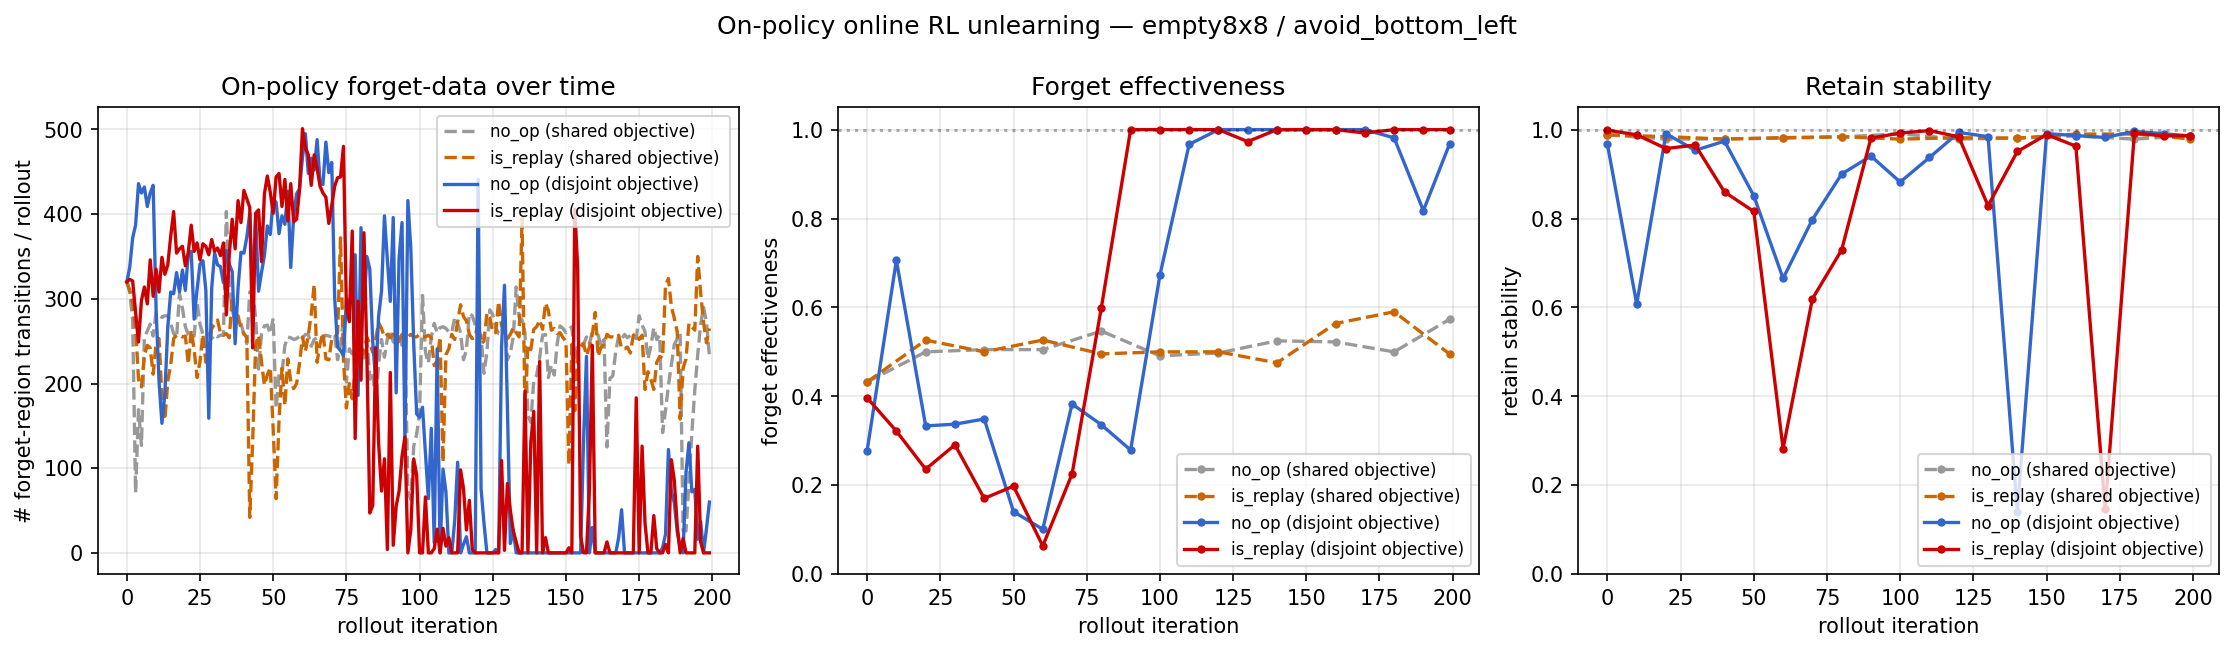
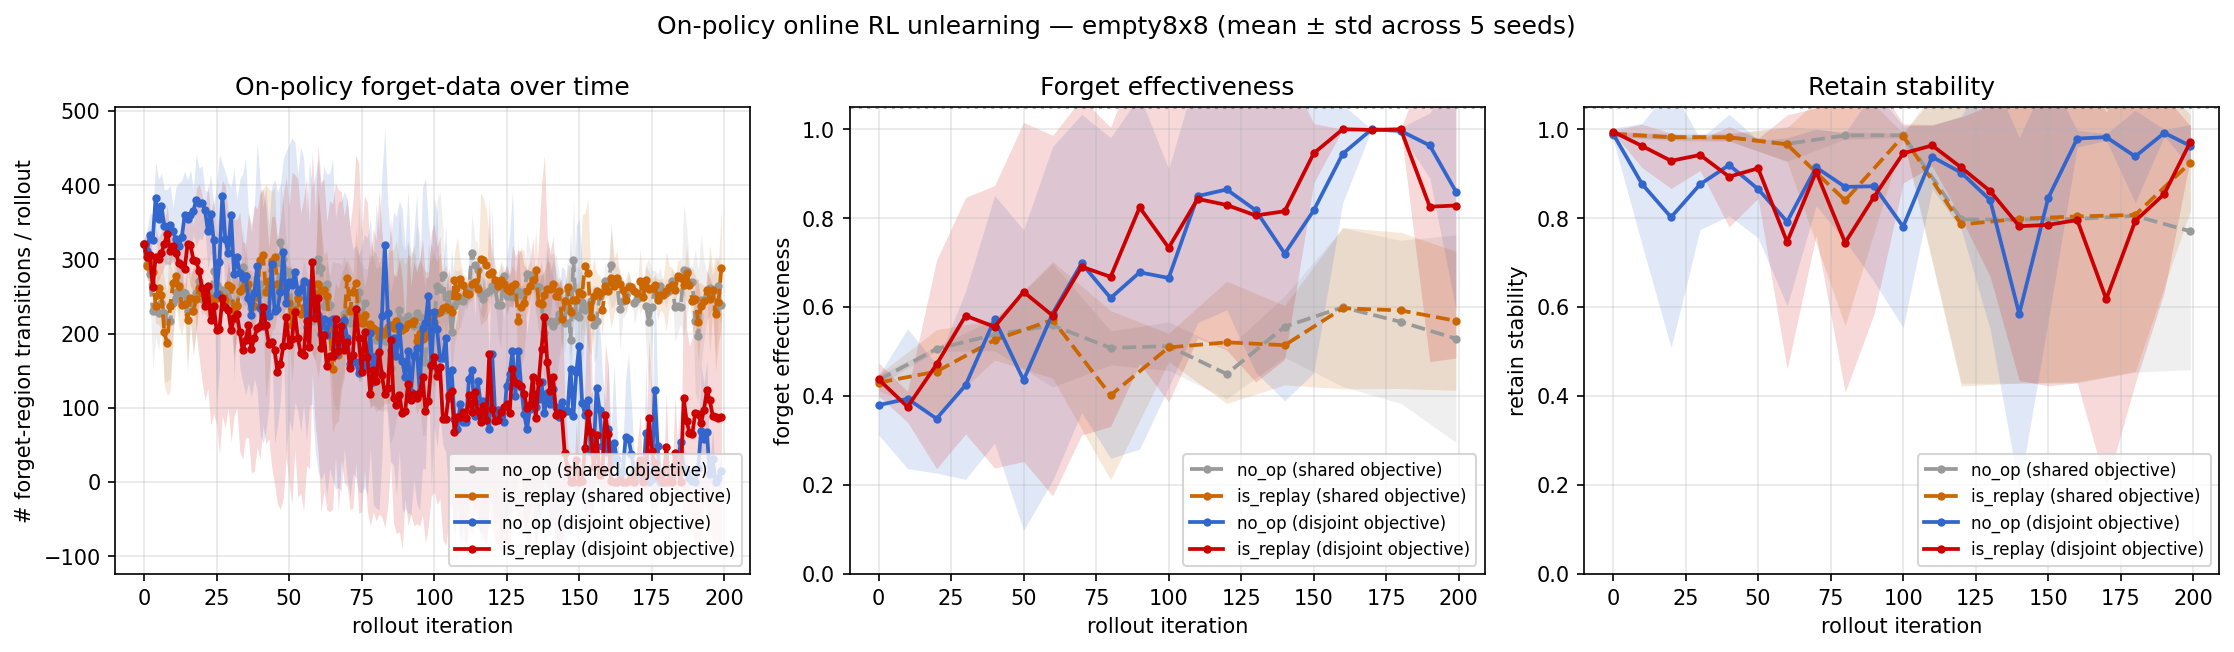
Multi-seed disjoint sweep + before/after GIFs for proposed method
- Empty-8x8 sweep across seeds {42, 43, 44, 45, 46} for all 4 conditions
  (no_op / is_replay × shared / disjoint), 200 iter each.
- Renamed older single-seed dirs and dropped redundant method_name
  prefix from new dirs so plot script picks both up consistently.
- scripts/plot_disjoint_result.py: accepts --seeds list, plots
  mean ± std shaded regions across seeds (truncates to shortest
  history when seeds have slightly different eval-iteration counts).
- scripts/make_unlearn_gif.py: --checkpoint flag accepts an explicit
  .pt path. Lets us render GIFs from online_unlearn outputs (which
  live under experiments/outputs/, not experiments/checkpoints/).

Generated for the poster:
- before.gif (baseline, stochastic, goes through bottom-left)
- after_is_replay_disjoint.gif (proposed method, deterministic,
  takes the alternative path)
- disjoint_result_empty8x8.png (5-seed mean ± std, 3 panels)

Note: the three-pillar offline framework (trajectory_selective /
strategy_inversion / retain_protection / TRIAD) is NOT used by the
online_unlearn loop. Those are now positioned as prior-work baselines.
The online contribution is disjoint-objective + IS forget-replay.

diff --git a/scripts/plot_disjoint_result.py b/scripts/plot_disjoint_result.py
@@ -21,8 +21,10 @@ from __future__ import annotations
 import argparse
 import json
 from pathlib import Path
+from typing import List
 
 import matplotlib.pyplot as plt
+import numpy as np
 
 ROOT = Path(__file__).resolve().parents[1]
 
@@ -35,74 +37,87 @@ CONDITIONS = [
 ]
 
 
+def _stack_metric(histories: List[list], key: str):
+    """Return (iters, mean, std) across multiple history runs for a metric.
+
+    Some metrics are logged every iteration (`n_forget_transitions`); others
+    only on eval iterations (`eval/forget_effectiveness`). We use the shared
+    set of iterations on which all seeds have the metric.
+    """
+    per_seed_x_y = []
+    for hist in histories:
+        xs = [h["iter"] for h in hist if key in h]
+        ys = [h[key] for h in hist if key in h]
+        if xs:
+            per_seed_x_y.append((xs, ys))
+    if not per_seed_x_y:
+        return np.array([]), np.array([]), np.array([])
+    # Different seeds may have slightly different lengths if eval timing
+    # differs at the boundary. Truncate to the shortest.
+    n = min(len(ys) for _, ys in per_seed_x_y)
+    iters = per_seed_x_y[0][0][:n]
+    Y = np.array([ys[:n] for _, ys in per_seed_x_y], dtype=np.float32)
+    return np.asarray(iters), Y.mean(axis=0), Y.std(axis=0)
+
+
 def main():
     p = argparse.ArgumentParser()
     p.add_argument("--env", default="empty8x8")
-    p.add_argument("--seed", type=int, default=42)
+    p.add_argument("--seeds", nargs="+", type=int, default=[42])
     p.add_argument("--output", required=True)
     args = p.parse_args()
 
     out_root = ROOT / "experiments" / "outputs"
-    histories = {}
+    # Group histories by condition, gathering all seeds we find.
+    grouped = {}
     for label, suffix, color, ls in CONDITIONS:
-        d = out_root / f"online_unlearn_{args.env}_seed{args.seed}_{suffix}"
-        hf = d / "history.json"
-        if not hf.exists():
-            print(f"missing: {hf}")
-            continue
-        histories[label] = (json.loads(hf.read_text()), color, ls)
+        hists = []
+        for seed in args.seeds:
+            d = out_root / f"online_unlearn_{args.env}_seed{seed}_{suffix}"
+            hf = d / "history.json"
+            if not hf.exists():
+                print(f"missing: {hf}")
+                continue
+            hists.append(json.loads(hf.read_text()))
+        if hists:
+            grouped[label] = (hists, color, ls)
 
-    if not histories:
+    if not grouped:
         raise SystemExit("no histories found")
 
     fig, axes = plt.subplots(1, 3, figsize=(15, 4.4))
 
-    # Panel 1: forget transitions per rollout
-    ax = axes[0]
-    for label, (hist, color, ls) in histories.items():
-        xs = [h["iter"] for h in hist]
-        ys = [h["n_forget_transitions"] for h in hist]
-        ax.plot(xs, ys, label=label, color=color, linestyle=ls, linewidth=1.6)
-    ax.set_xlabel("rollout iteration")
-    ax.set_ylabel("# forget-region transitions / rollout")
-    ax.set_title("On-policy forget-data over time")
-    ax.grid(alpha=0.3)
-    ax.legend(fontsize=8, loc="upper right")
+    def plot_panel(ax, key, ylabel, title, ylim=None):
+        for label, (hists, color, ls) in grouped.items():
+            iters, mean, std = _stack_metric(hists, key)
+            if len(iters) == 0:
+                continue
+            ax.plot(iters, mean, color=color, linestyle=ls, linewidth=1.8,
+                    label=label, marker="o", markersize=3)
+            if len(hists) > 1:
+                ax.fill_between(iters, mean - std, mean + std,
+                                color=color, alpha=0.15, linewidth=0)
+        ax.set_xlabel("rollout iteration")
+        ax.set_ylabel(ylabel)
+        ax.set_title(title)
+        ax.grid(alpha=0.3)
+        if ylim is not None:
+            ax.set_ylim(*ylim)
+            ax.axhline(ylim[1], color="black", linestyle=":", alpha=0.3)
+        ax.legend(fontsize=8, loc="lower right")
 
-    # Panel 2: forget_effectiveness over iters
-    ax = axes[1]
-    for label, (hist, color, ls) in histories.items():
-        xs = [h["iter"] for h in hist if "eval/forget_effectiveness" in h]
-        ys = [h["eval/forget_effectiveness"] for h in hist
-              if "eval/forget_effectiveness" in h]
-        ax.plot(xs, ys, label=label, color=color, linestyle=ls, marker="o",
-                markersize=3, linewidth=1.6)
-    ax.set_xlabel("rollout iteration")
-    ax.set_ylabel("forget effectiveness")
-    ax.set_title("Forget effectiveness")
-    ax.set_ylim(0, 1.05)
-    ax.axhline(1.0, color="black", linestyle=":", alpha=0.3)
-    ax.grid(alpha=0.3)
-    ax.legend(fontsize=8, loc="lower right")
+    plot_panel(axes[0], "n_forget_transitions",
+               "# forget-region transitions / rollout",
+               "On-policy forget-data over time")
+    plot_panel(axes[1], "eval/forget_effectiveness",
+               "forget effectiveness", "Forget effectiveness", ylim=(0, 1.05))
+    plot_panel(axes[2], "eval/retain_stability",
+               "retain stability", "Retain stability", ylim=(0, 1.05))
 
-    # Panel 3: retain stability over iters
-    ax = axes[2]
-    for label, (hist, color, ls) in histories.items():
-        xs = [h["iter"] for h in hist if "eval/retain_stability" in h]
-        ys = [h["eval/retain_stability"] for h in hist
-              if "eval/retain_stability" in h]
-        ax.plot(xs, ys, label=label, color=color, linestyle=ls, marker="o",
-                markersize=3, linewidth=1.6)
-    ax.set_xlabel("rollout iteration")
-    ax.set_ylabel("retain stability")
-    ax.set_title("Retain stability")
-    ax.set_ylim(0, 1.05)
-    ax.axhline(1.0, color="black", linestyle=":", alpha=0.3)
-    ax.grid(alpha=0.3)
-    ax.legend(fontsize=8, loc="lower right")
-
+    n_seeds = max(len(v[0]) for v in grouped.values())
     fig.suptitle(
-        f"On-policy online RL unlearning — {args.env} / avoid_bottom_left",
+        f"On-policy online RL unlearning — {args.env} "
+        f"(mean ± std across {n_seeds} seeds)",
         fontsize=12,
     )
     fig.tight_layout()

diff --git a/scripts/make_unlearn_gif.py b/scripts/make_unlearn_gif.py
@@ -99,8 +99,10 @@ def rollout_frames(
 def main():
     p = argparse.ArgumentParser()
     p.add_argument("--env", choices=list(GEOMETRY.keys()), default="empty8x8")
-    p.add_argument("--variant", required=True,
-                   help="'baseline' or any unlearned variant name (e.g. 'trajectory_selective', 'triad', 'triad_nodemos').")
+    p.add_argument("--variant",
+                   help="'baseline' or any unlearned variant name; ignored if --checkpoint is set.")
+    p.add_argument("--checkpoint", default=None,
+                   help="Explicit path to a .pt file. Bypasses --variant lookup.")
     p.add_argument("--experiment", default=None,
                    help="default: {env}_ppo_seed42")
     p.add_argument("--forget-box", nargs=4, type=int, required=True,
@@ -120,10 +122,14 @@ def main():
     if args.experiment is None:
         args.experiment = f"{args.env}_ppo_seed42"
 
-    if args.variant == "baseline":
+    if args.checkpoint:
+        ckpt = Path(args.checkpoint)
+    elif args.variant == "baseline":
         ckpt = ROOT / "experiments" / "checkpoints" / args.experiment / "final_model.pt"
-    else:
+    elif args.variant:
         ckpt = ROOT / "experiments" / "checkpoints" / args.experiment / f"unlearned_{args.variant}.pt"
+    else:
+        sys.exit("Provide --variant or --checkpoint")
     if not ckpt.exists():
         sys.exit(f"checkpoint not found: {ckpt}")
 
